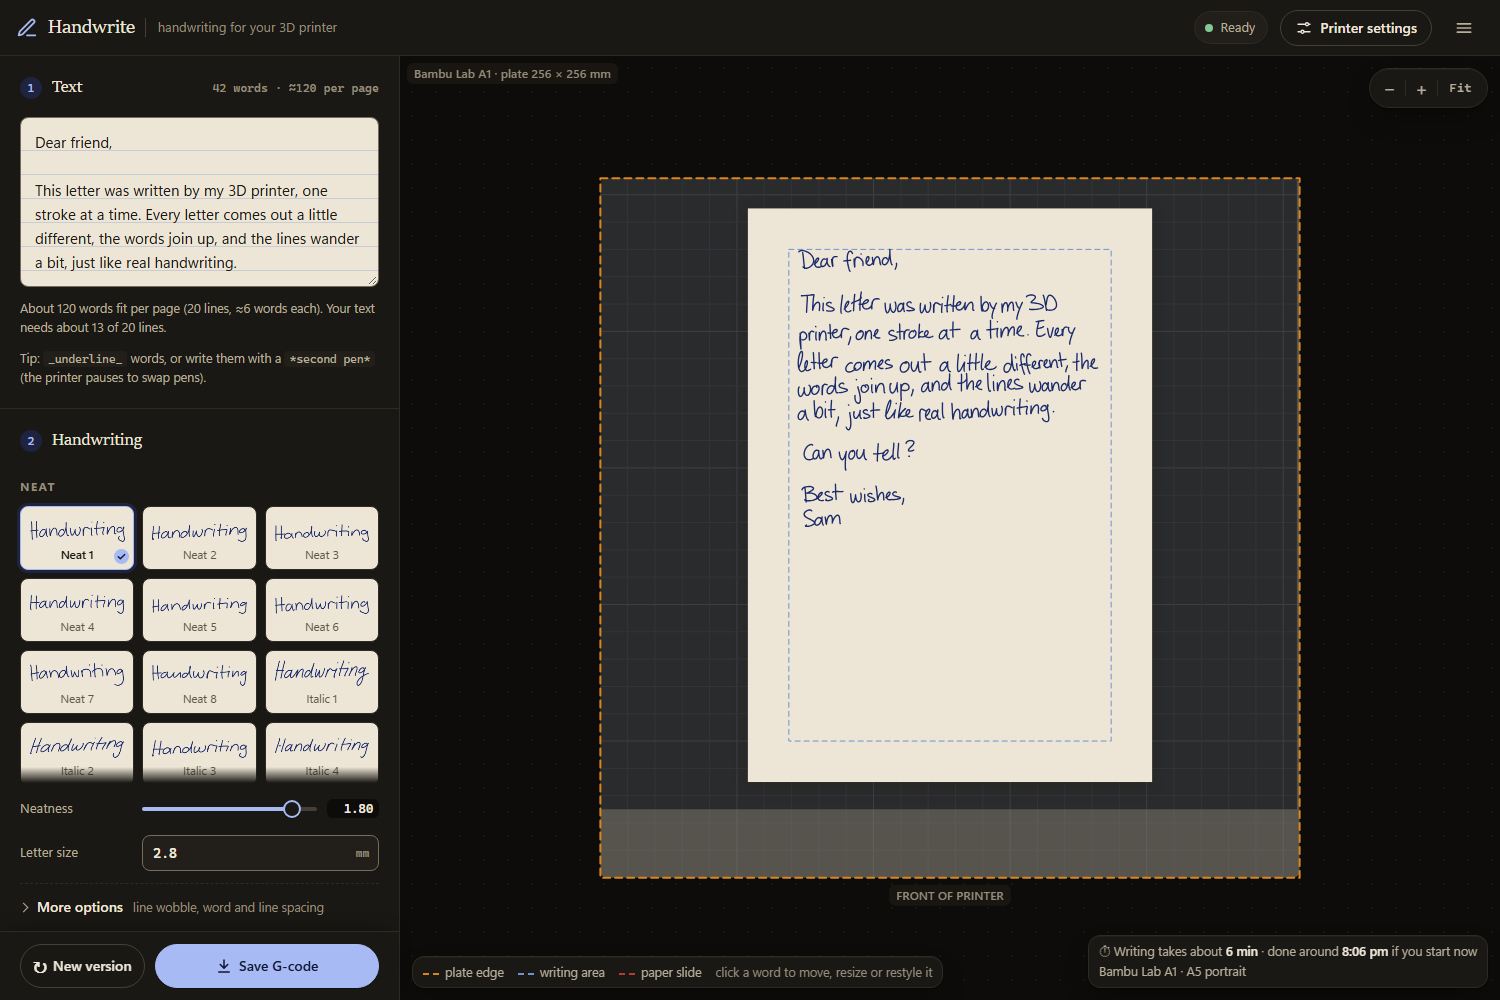
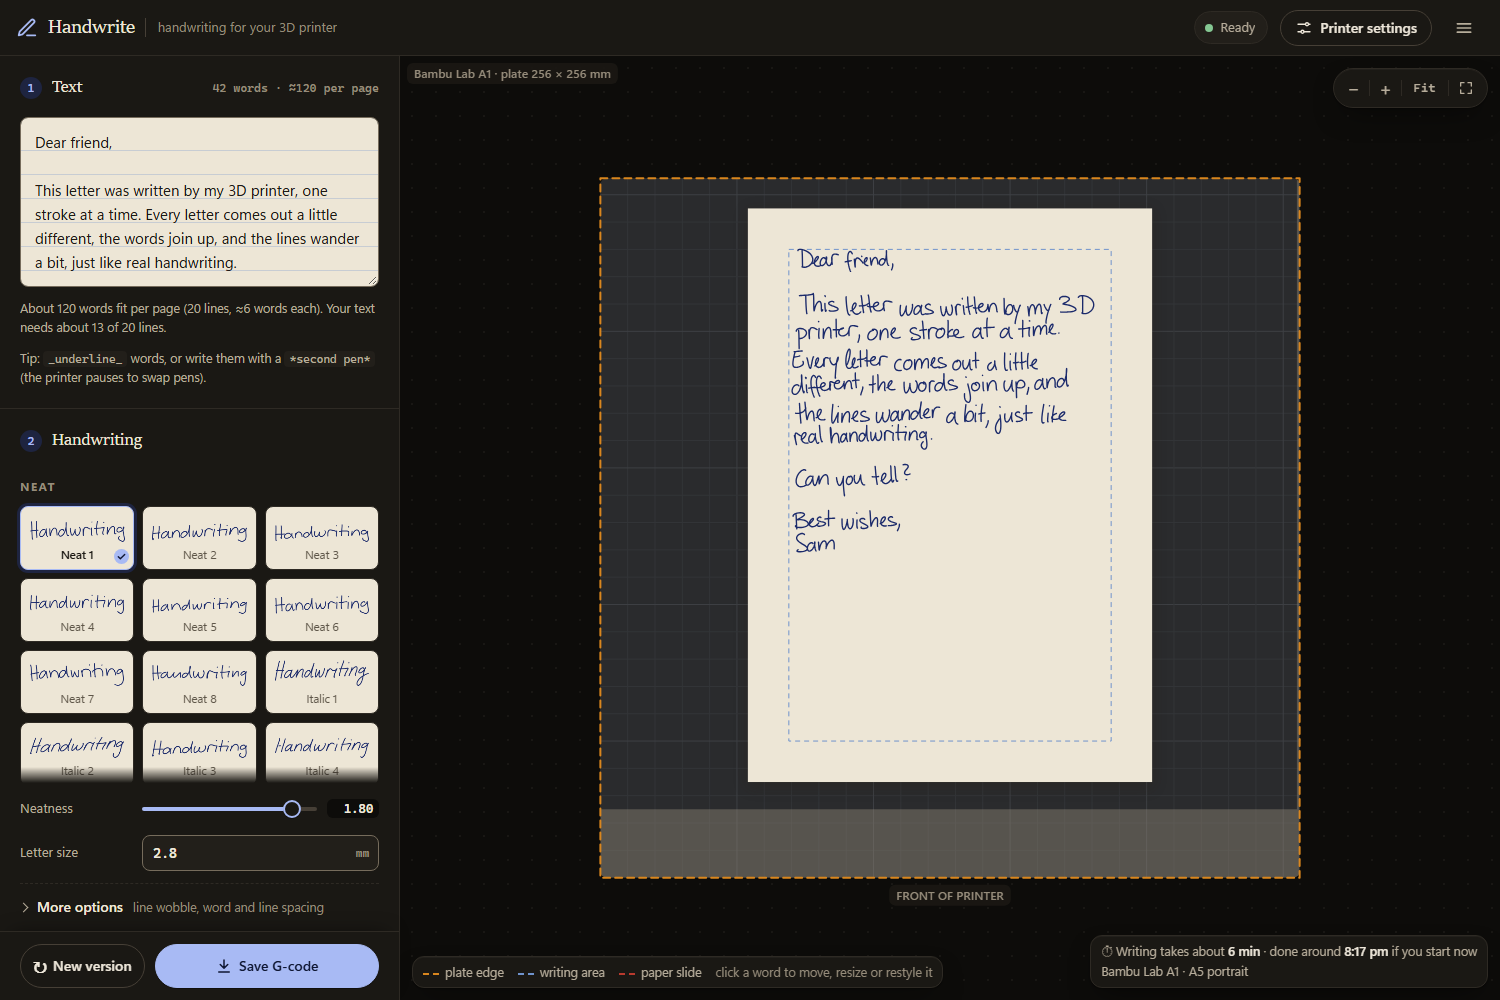
Preview: the plate no longer slides around when you drag beside the paper; a full-screen button zooms onto the paper (for phones), closed by X, Esc or Back

Changed region(s): [[0.5213, 0.248, 0.736, 0.558], [0.736, 0.93, 0.92, 0.992], [0.9507, 0.062, 0.9813, 0.093]]

diff --git a/web/app.js b/web/app.js
@@ -493,7 +493,9 @@
     if (big && (big[3] - big[1]) * s > 24 && (big[2] - big[0]) * s > 120) // at its top edge, clear of the chips at the bottom
       label("pen can't reach", pX((big[0] + big[2]) / 2), pY(big[1]) + 19, css("--muted"), "center");
     label(`${pr.model} · plate ${bx} × ${by} mm`, 14, 22, css("--muted"), "left");
-    label("FRONT OF PRINTER", X(dx + bx / 2), Math.min(Y(dy) + 22, H - 58), css("--muted"), "center"); // just under the plate, above the chips
+    const full = canvas.closest(".stage").classList.contains("full"), fy = Y(dy) + 22;
+    if (!full || fy <= H - 12) // just under the plate, above the chips; zoomed onto the paper in full screen, only if the front edge shows
+      label("FRONT OF PRINTER", X(dx + bx / 2), full ? fy : Math.min(fy, H - 58), css("--muted"), "center");
   }
   /** The word bar sits just under the selection (above it when there's no room), inside the preview. */
   function placeBar(x0, y0, x1, y1, W, H) {
@@ -539,7 +541,7 @@
       return draw();
     }
     drag = e.button === 0 && onPaper(e) ? { kind: "paper", start: toBed(e), x: p.x, y: p.y, sx: e.clientX, sy: e.clientY, moved: false }
-      : { kind: "pan", sx: e.clientX, sy: e.clientY, px: view.panX, py: view.panY, moved: false };
+      : { kind: "bg", sx: e.clientX, sy: e.clientY, moved: false }; // beside the paper: the plate stays put (a click deselects)
   });
   canvas.addEventListener("pointermove", e => {
     if (!drag) {
@@ -550,13 +552,13 @@
     }
     if (drag.kind === "none") return;
     if (!drag.moved && Math.hypot(e.clientX - drag.sx, e.clientY - drag.sy) < 4) return; // still a click, not a drag
-    canvas.style.cursor = drag.kind === "word" ? "move" : "grabbing";
+    canvas.style.cursor = drag.kind === "word" ? "move" : drag.kind === "bg" ? "default" : "grabbing";
     if (drag.kind === "word") { // mm on the page (y down), kept on the paper; drawn live, laid out when let go
       const [x, y] = toBed(e);
       drag.moved = true; drag.delta = fitMove(x - drag.start[0], drag.start[1] - y);
       return draw();
     }
-    if (drag.kind === "pan") { drag.moved = true; view.panX = drag.px + e.clientX - drag.sx; view.panY = drag.py + e.clientY - drag.sy; return draw(); }
+    if (drag.kind === "bg") { drag.moved = true; return; }
     drag.moved = true; hover = null;
     const cfg = plateCfg(); if (!cfg) return;
     const [x, y] = toBed(e), p = state.settings.paper, pr = cfg.printer;
@@ -571,7 +573,7 @@
     if (!d) return;
     if (d.kind === "word" && d.moved) return moveBy(...d.delta);
     if (d.kind === "paper" && d.moved) return scheduleRender(0);
-    if ((d.kind === "paper" || d.kind === "pan") && !d.moved && sel) { select(null); draw(); } // a click beside the words: done
+    if ((d.kind === "paper" || d.kind === "bg") && !d.moved && sel) { select(null); draw(); } // a click beside the words: done
   });
   canvas.addEventListener("pointerleave", () => { if (hover && !drag) { hover = null; draw(); } });
   /** Write these words again: each gets the next fresh seed, the rest of the page keeps its handwriting. */
@@ -673,7 +675,36 @@
   new ResizeObserver(() => draw()).observe(canvas);
   matchMedia("(prefers-color-scheme: dark)").addEventListener("change", () => draw()); // paper + labels follow the theme
   $("zoomIn").onclick = () => zoomAt(1.5); $("zoomOut").onclick = () => zoomAt(1 / 1.5);
-  $("zoomFit").onclick = () => { Object.assign(view, { zoom: 1, panX: 0, panY: 0 }); draw(); };
+  $("zoomFit").onclick = () => { if (stageEl.classList.contains("full")) return focusPaper(); Object.assign(view, { zoom: 1, panX: 0, panY: 0 }); draw(); };
+
+  // full screen: the plate over the whole screen, zoomed onto the paper, so the words are easy to read on a phone
+  const stageEl = canvas.closest(".stage");
+  /** Zoom so the paper fills the view, centred on it. */
+  function focusPaper() {
+    const cfg = plateCfg(); if (!cfg) return;
+    const W = canvas.clientWidth, H = canvas.clientHeight, pr = cfg.printer, p = cfg.paper, bx = pr.bed_x, by = pr.bed_y;
+    const base = Math.min(W / (bx * 1.35), H / (by * 1.35)), fit = Math.min(W / (p.width * 1.08), (H - 24) / (p.height * 1.08));
+    const zoom = Math.min(Math.max(fit / base, 1), 14), s = base * zoom, cx = p.x + p.width / 2, cy = p.y + p.height / 2;
+    Object.assign(view, { zoom, panX: W / 2 - ((W - bx * s) / 2 - pr.offset_x * s + cx * s), panY: H / 2 - ((H - by * s) / 2 + pr.offset_y * s + (by - cy) * s) });
+    draw();
+  }
+  function setFull(on) {
+    if (stageEl.classList.contains("full") === on) return;
+    stageEl.classList.toggle("full", on); document.documentElement.classList.toggle("stage-full", on);
+    $("zoomFull").setAttribute("aria-pressed", on); $("zoomFull").setAttribute("aria-label", on ? "Close full screen" : "Full screen");
+    if (on) {
+      window.history.pushState({ full: true }, ""); // the phone's Back button closes it
+      if (stageEl.requestFullscreen && matchMedia("(pointer: coarse)").matches) stageEl.requestFullscreen().catch(() => {}); // hides the browser bars where allowed
+    } else {
+      if (document.fullscreenElement) document.exitFullscreen().catch(() => {});
+      if (window.history.state && window.history.state.full) window.history.back();
+    }
+    requestAnimationFrame(() => requestAnimationFrame(() => (on ? focusPaper() : (Object.assign(view, { zoom: 1, panX: 0, panY: 0 }), draw()))));
+  }
+  $("zoomFull").onclick = () => setFull(!stageEl.classList.contains("full"));
+  addEventListener("popstate", () => setFull(false));
+  document.addEventListener("fullscreenchange", () => { if (!document.fullscreenElement && stageEl.classList.contains("full")) setFull(false); });
+  document.addEventListener("keydown", e => { if (e.key === "Escape" && !e.defaultPrevented && stageEl.classList.contains("full")) setFull(false); });
 
   // ---------- controls ----------
   const W_ = () => state.settings.writing, P_ = () => state.settings.paper, PR_ = () => state.settings.printer;
@@ -964,19 +995,19 @@
     return null;
   }
   // undo / redo for word changes and rewrites (the text box keeps its own undo)
-  const history = { undo: [], redo: [] };
+  const undoStack = { undo: [], redo: [] }; // not `history`: that's the browser's
   const snapshot = () => ({ edits: new Map([...state.edits].map(([k, e]) => [k, { ...e }])), rerolls: new Map(state.rerolls) });
-  function remember() { history.undo.push(snapshot()); if (history.undo.length > 100) history.undo.shift(); history.redo.length = 0; $("wbUndo").hidden = false; }
+  function remember() { undoStack.undo.push(snapshot()); if (undoStack.undo.length > 100) undoStack.undo.shift(); undoStack.redo.length = 0; $("wbUndo").hidden = false; }
   function travel(from, to) {
     if (!from.length) return;
     to.push(snapshot());
     const s = from.pop();
     state.edits = s.edits; state.rerolls = s.rerolls;
     keep(STORE.edits, Object.fromEntries(state.edits));
-    $("wbUndo").hidden = !history.undo.length;
+    $("wbUndo").hidden = !undoStack.undo.length;
     syncBar(); scheduleRender(0);
   }
-  const undo = () => travel(history.undo, history.redo), redo = () => travel(history.redo, history.undo);
+  const undo = () => travel(undoStack.undo, undoStack.redo), redo = () => travel(undoStack.redo, undoStack.undo);
   $("wbUndo").onclick = undo;
   document.addEventListener("keydown", e => {
     if (!(e.ctrlKey || e.metaKey) || e.altKey) return;

diff --git a/web/index.html b/web/index.html
@@ -223,7 +223,7 @@
   @media (max-width: 1000px) { .hero { grid-template-columns: minmax(0,1fr); gap: 40px; min-height: 0; padding-block: 40px 64px; } }
   @media (max-width: 600px) { .hero .cta { flex-direction: column; } .hero .cta .btn { width: 100%; } }
 
-  /* hero machine: a Bambu Lab A1 from above */
+  /* hero machine: a printer from above (the bed stays put, the head moves) */
   .machine { margin: 0; min-width: 0; animation: rise16 1000ms var(--e-out) 200ms both; }
   .m-win { border-radius: var(--r-lg); overflow: hidden; background: var(--chamber); border: 1px solid var(--chamber-edge); box-shadow: var(--sh-3); contain: layout paint; }
   .m-bar { display: flex; align-items: center; gap: 14px; height: 44px; padding: 0 6px 0 16px; border-bottom: 1px solid var(--chamber-line);
@@ -557,8 +557,8 @@
   #print[data-stage="1"] .s1, #print[data-stage="2"] .s2, #print[data-stage="3"] .s3, #print[data-stage="4"] .s4 { opacity: 1; transition: opacity .4s .2s; }
   #print[data-stage="4"] .head-x { animation: bob .4s var(--e-in-out) infinite alternate; }   /* pen lifts and lowers for every stroke */
   @keyframes bob { to { transform: translateY(-4px); } }
-  #print[data-stage="4"] .bed-g { transform: translateX(24px); animation: bedstep 4.8s var(--e-in-out) .4s both; }
-  @keyframes bedstep { 0%,10% { transform: translateX(0); } 22%,45% { transform: translateX(8px); } 57%,80% { transform: translateX(16px); } 92%,100% { transform: translateX(24px); } }
+  #print[data-stage="4"] .head-y { transform: translate(-24px, 8px); animation: headstep 4.8s var(--e-in-out) .4s both; } /* the head moves across, the bed stays put */
+  @keyframes headstep { 0%,10% { transform: translate(0, 8px); } 22%,45% { transform: translate(-8px, 8px); } 57%,80% { transform: translate(-16px, 8px); } 92%,100% { transform: translate(-24px, 8px); } }
   #print .inset .ink { stroke-width: 1.4; }
   #print .inset-bg { fill: var(--sheet); stroke: var(--line); }
   #print[data-stage="4"] .inset .draw { stroke-dashoffset: 0; transition: stroke-dashoffset .35s linear; }
@@ -783,10 +783,10 @@
           </button>
         </div>
         <svg id="machine" viewBox="0 0 640 480" preserveAspectRatio="xMidYMid slice" role="img"
-          aria-label="Animation: a Bambu Lab A1, seen from above, writes 'Dear friend, this letter was written by my 3D printer.' with a pen."><g id="heroInk" class="ink"></g></svg>
+          aria-label="Animation: a 3D printer, seen from above, writes 'Dear friend, this letter was written by my 3D printer.' with a pen."><g id="heroInk" class="ink"></g></svg>
         <ol class="m-code" id="heroCode" aria-hidden="true"></ol>
       </div>
-      <figcaption>Bambu Lab A1 seen from above, 6× speed</figcaption>
+      <figcaption>Seen from above, 6× speed</figcaption>
     </figure>
   </div>
 
@@ -874,7 +874,7 @@
           <li><b class="n">1</b><span><b>Text.</b> Type or paste what you want written. Characters the model can't write are listed under it.</span></li>
           <li><b class="n">2</b><span><b>Handwriting.</b> Click a style to use it.</span></li>
           <li><b class="n">3</b><span><b>Neatness and letter size.</b> Line wobble and spacing are under <span class="ui">More options</span> just below. <a href="#settings">What each one does</a>.</span></li>
-          <li><b class="n">4</b><span><b>Build-plate preview.</b> The page as it will be written. Drag the paper, scroll to zoom, click a word to move, resize or restyle it.</span></li>
+          <li><b class="n">4</b><span><b>Build-plate preview.</b> The page as it will be written. Drag the paper, scroll to zoom, click a word to move, resize or restyle it. On a phone, the full-screen button zooms onto the paper.</span></li>
           <li><b class="n">5</b><span><b>New version / Save G-code.</b> New version rewrites the same text with fresh handwriting. Save G-code makes the file.</span></li>
           <li><b class="n">6</b><span><b>Printer settings.</b> The pen offset, pen heights, pauses and speeds.</span></li>
           <li><b class="n">7</b><span><b>Time estimate.</b> How long the page takes, including the pauses.</span></li>
@@ -1103,7 +1103,7 @@
               <g id="insetInk" transform="translate(412 12)"></g>
             </g>
           </svg>
-          <p class="fig-cap">Bambu Lab A1 shown: its bed moves front to back, the head moves across.</p>
+          <p class="fig-cap">Seen from the side: the head moves and lifts the pen between strokes; the bed stays put.</p>
           <button type="button" class="stepper-toggle" aria-label="Pause animation" hidden>
             <svg class="i-pause" width="14" height="14" viewBox="0 0 14 14" aria-hidden="true"><rect x="2.5" y="2" width="3" height="10" rx="1" fill="currentColor"/><rect x="8.5" y="2" width="3" height="10" rx="1" fill="currentColor"/></svg>
             <svg class="i-play" width="14" height="14" viewBox="0 0 14 14" aria-hidden="true"><path d="M4 2.2v9.6L12 7z" fill="currentColor"/></svg>
@@ -1569,15 +1569,15 @@ if (!reduce && "IntersectionObserver" in window) {
   }
 })();
 
-// hero: a Bambu Lab A1 seen from above writes the note. Bed slides front/back, head crosses left/right,
+// hero: a printer seen from above writes the note. The bed stays put; the gantry carries the head front/back and the head crosses left/right;
 // the pen sits 25 mm in front of the nozzle (the Plotter default offset X 1, Y -25), G-code as gcode.js writes it.
 (() => {
   const svg = $("machine"), inkG = $("heroInk"), fig = svg && svg.closest(".machine"), btn = $("heroToggle");
   if (!svg || !inkG || !fig || !STROKES || !STROKES.hero) return;
-  const S = 2.4, X0 = 320 - 128 * S, GY = 170, OFF = { x: 1, y: -25 }, PX = { x: 23, y: 60, w: 210, h: 148 }; // px/mm, nozzle screen line, A5 landscape
+  const S = 2.4, X0 = 320 - 128 * S, GY = 170, BY = 600, OFF = { x: 1, y: -25 }, PX = { x: 23, y: 60, w: 210, h: 148 }; // px/mm, head's own line, bed Y=0 on screen, A5 landscape
   const K = 170 / (STROKES.hero.w + 8), IX = PX.x + 20, IY = PX.y + PX.h - 14; // mm per STROKES unit, ink origin on the bed
   // bed (mm, y toward the back): plate, grid, edge, taped sheet, ink
-  const bed = el("g", {}, svg), bedIn = el("g", { transform: `scale(${S} ${-S})` }, bed);
+  const bed = el("g", { transform: `translate(${X0} ${BY})` }, svg), bedIn = el("g", { transform: `scale(${S} ${-S})` }, bed);
   el("rect", { x: 0, y: 0, width: 256, height: 256, rx: 3, fill: "var(--plate)" }, bedIn);
   let minor = "", major = "";
   for (let v = 10; v < 256; v += 10) { const d = `M${v} 0V256M0 ${v}H256`; if (v % 50) minor += d; else major += d; }
@@ -1640,7 +1640,7 @@ if (!reduce && "IntersectionObserver" in window) {
   let wasDown = null;
   function pose(x, y, z) { // x, y = pen point on the bed (mm)
     const nx = x - OFF.x, ny = y - OFF.y, up = Math.min(1, Math.max(0, (z - Z.draw) / 2)), down = z <= Z.draw + .01;
-    bed.setAttribute("transform", `translate(${X0} ${GY + S * ny})`);
+    gan.setAttribute("transform", `translate(0 ${BY - S * ny - GY})`); // the gantry (beam + head) moves; the bed doesn't
     head.setAttribute("transform", `translate(${X0 + S * nx} ${GY})`);
     ring.setAttribute("transform", `scale(${1 + .12 * up + .01 * Math.max(0, z - 12)})`); tip.setAttribute("opacity", 1 - up * .7);
     set(dX, f2(nx)); set(dY, f2(ny)); set(dZ, f2(z));

diff --git a/web/app.html b/web/app.html
@@ -125,6 +125,16 @@
     background: var(--bg-band) radial-gradient(circle, rgba(60,45,20,.10) 1px, transparent 1.5px) 0 0 / 24px 24px; }
   @media (prefers-color-scheme: dark) { .stage { background: #0D0C0A radial-gradient(circle, rgba(255,240,220,.05) 1px, transparent 1.5px) 0 0 / 24px 24px; } }
   #plate { width: 100%; height: 100%; display: block; touch-action: none; }
+  /* full screen: the preview over everything (the page behind it doesn't scroll) */
+  .stage.full { position: fixed; inset: 0; z-index: 70; display: block; height: 100dvh; }
+  .stage.full #plate { height: 100%; }
+  html.stage-full, html.stage-full body { overflow: hidden; }
+  #zoomFull .i-close, .stage.full #zoomFull .i-open { display: none; }
+  .stage.full #zoomFull .i-close { display: block; }
+  #zoomFull { padding: 0 10px; }
+  .stage.full .info { position: absolute; left: 12px; right: 12px; bottom: 12px; padding: 0; }
+  .stage.full .pager { top: auto; bottom: 16px; }
+  @media (max-width: 860px) { .stage.full .legend, .stage.full #summary { display: none; } } /* on a phone, all of the screen for the page */
 
   /* ---------- top bar ---------- */
   .appbar { position: relative; z-index: 10; display: flex; flex-wrap: nowrap; align-items: center; gap: 12px; height: 56px; padding: 0 16px;
@@ -617,6 +627,10 @@
       <button class="btn small" id="zoomOut" type="button" aria-label="Zoom out">−</button>
       <button class="btn small" id="zoomIn" type="button" aria-label="Zoom in">+</button>
       <button class="btn small" id="zoomFit" type="button">Fit</button>
+      <button class="btn small" id="zoomFull" type="button" aria-label="Full screen" aria-pressed="false" title="Full screen">
+        <svg class="i-open" width="16" height="16" viewBox="0 0 24 24" fill="none" stroke="currentColor" stroke-width="2" stroke-linecap="round" stroke-linejoin="round" aria-hidden="true"><path d="M4 9V4h5M20 9V4h-5M4 15v5h5M20 15v5h-5"/></svg>
+        <svg class="i-close" width="16" height="16" viewBox="0 0 24 24" fill="none" stroke="currentColor" stroke-width="2" stroke-linecap="round" aria-hidden="true"><path d="M6 6l12 12M18 6L6 18"/></svg>
+      </button>
     </div>
     <div class="wordbar" id="wordBar" role="toolbar" aria-label="Change the selected word" hidden>
       <div class="wb-head">
